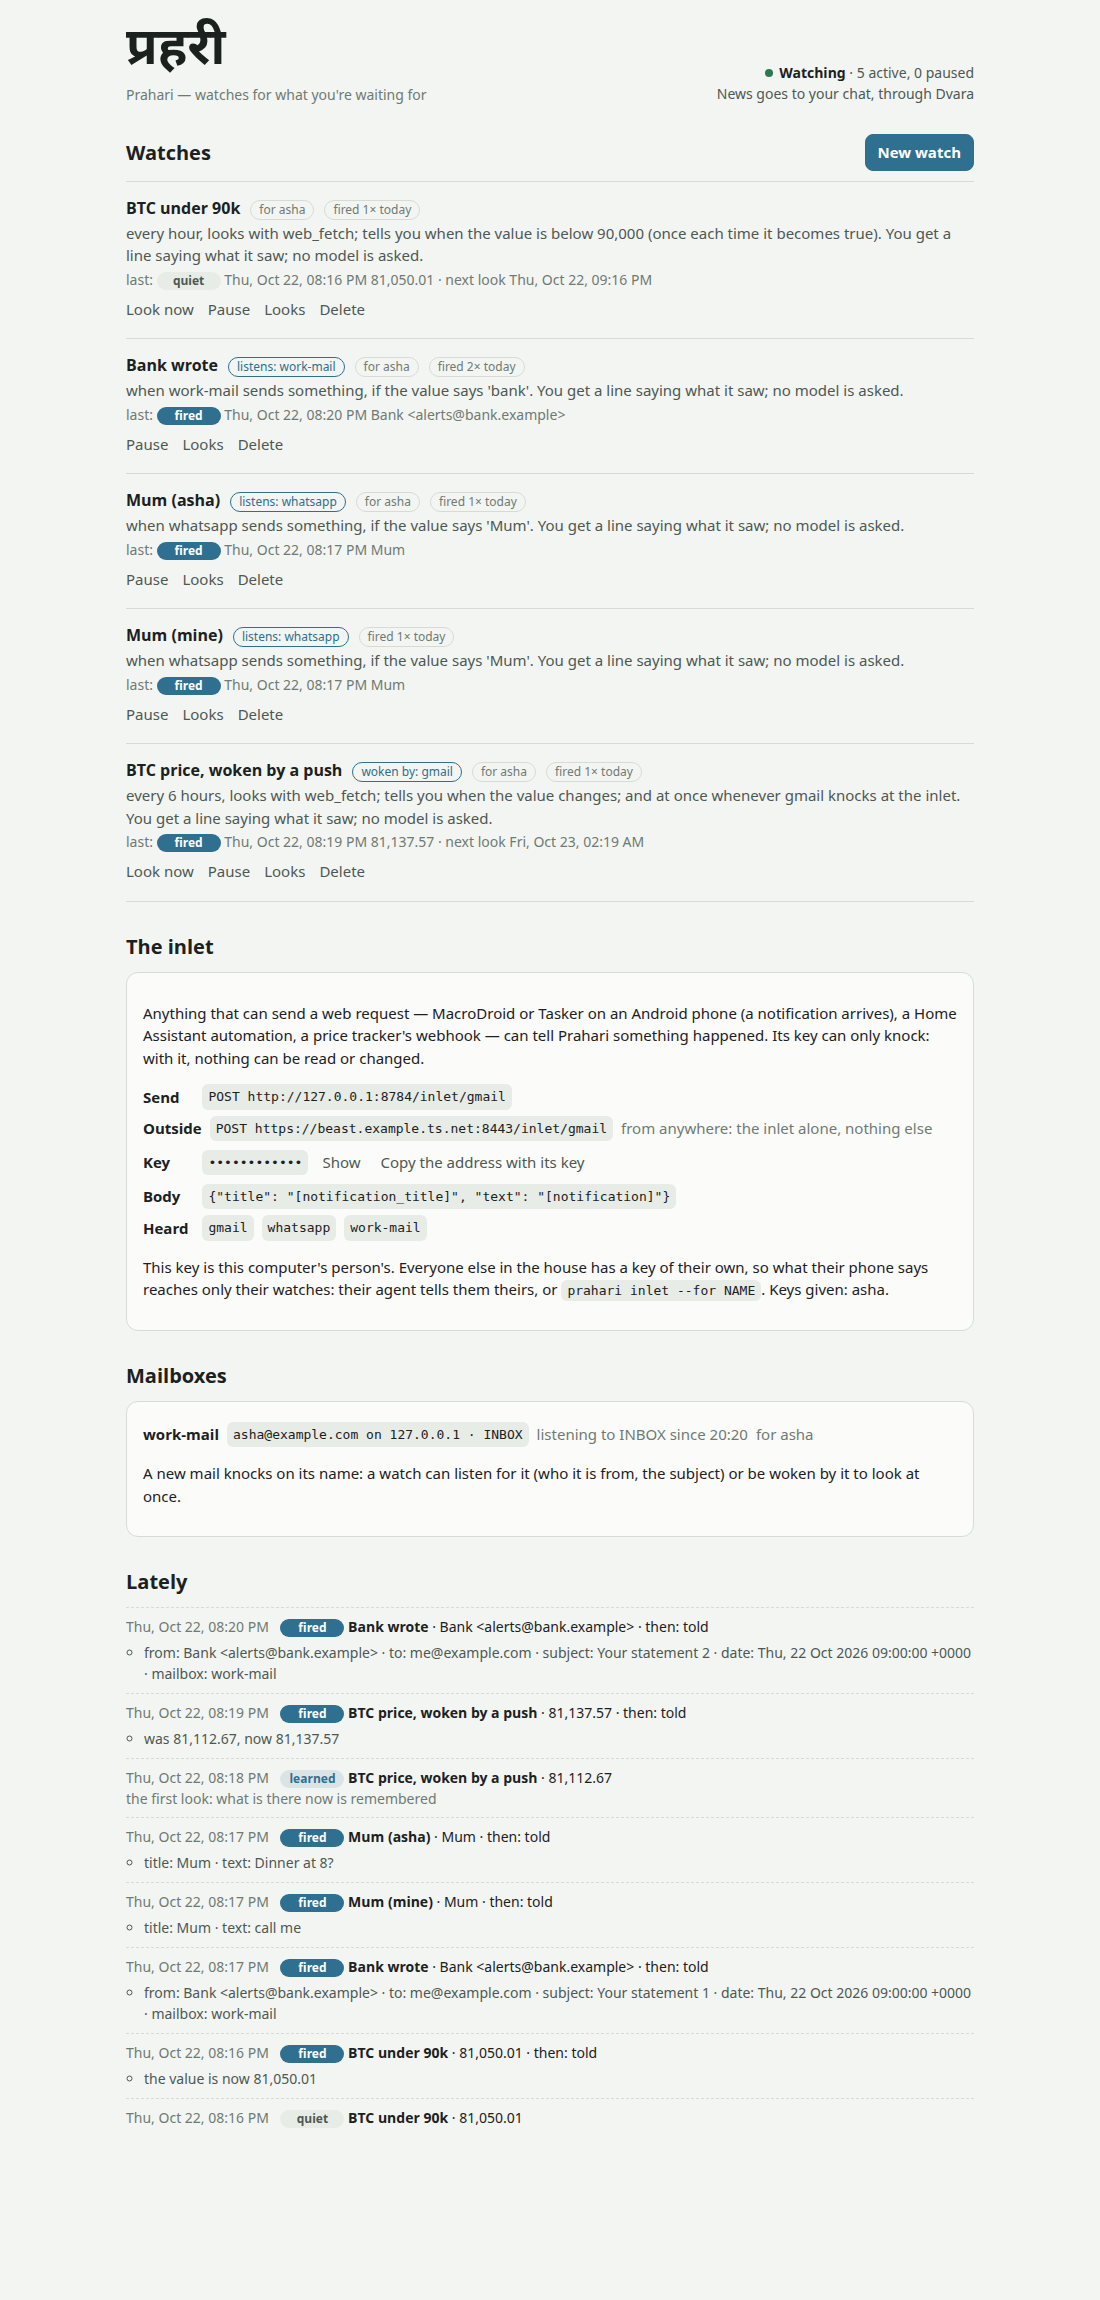
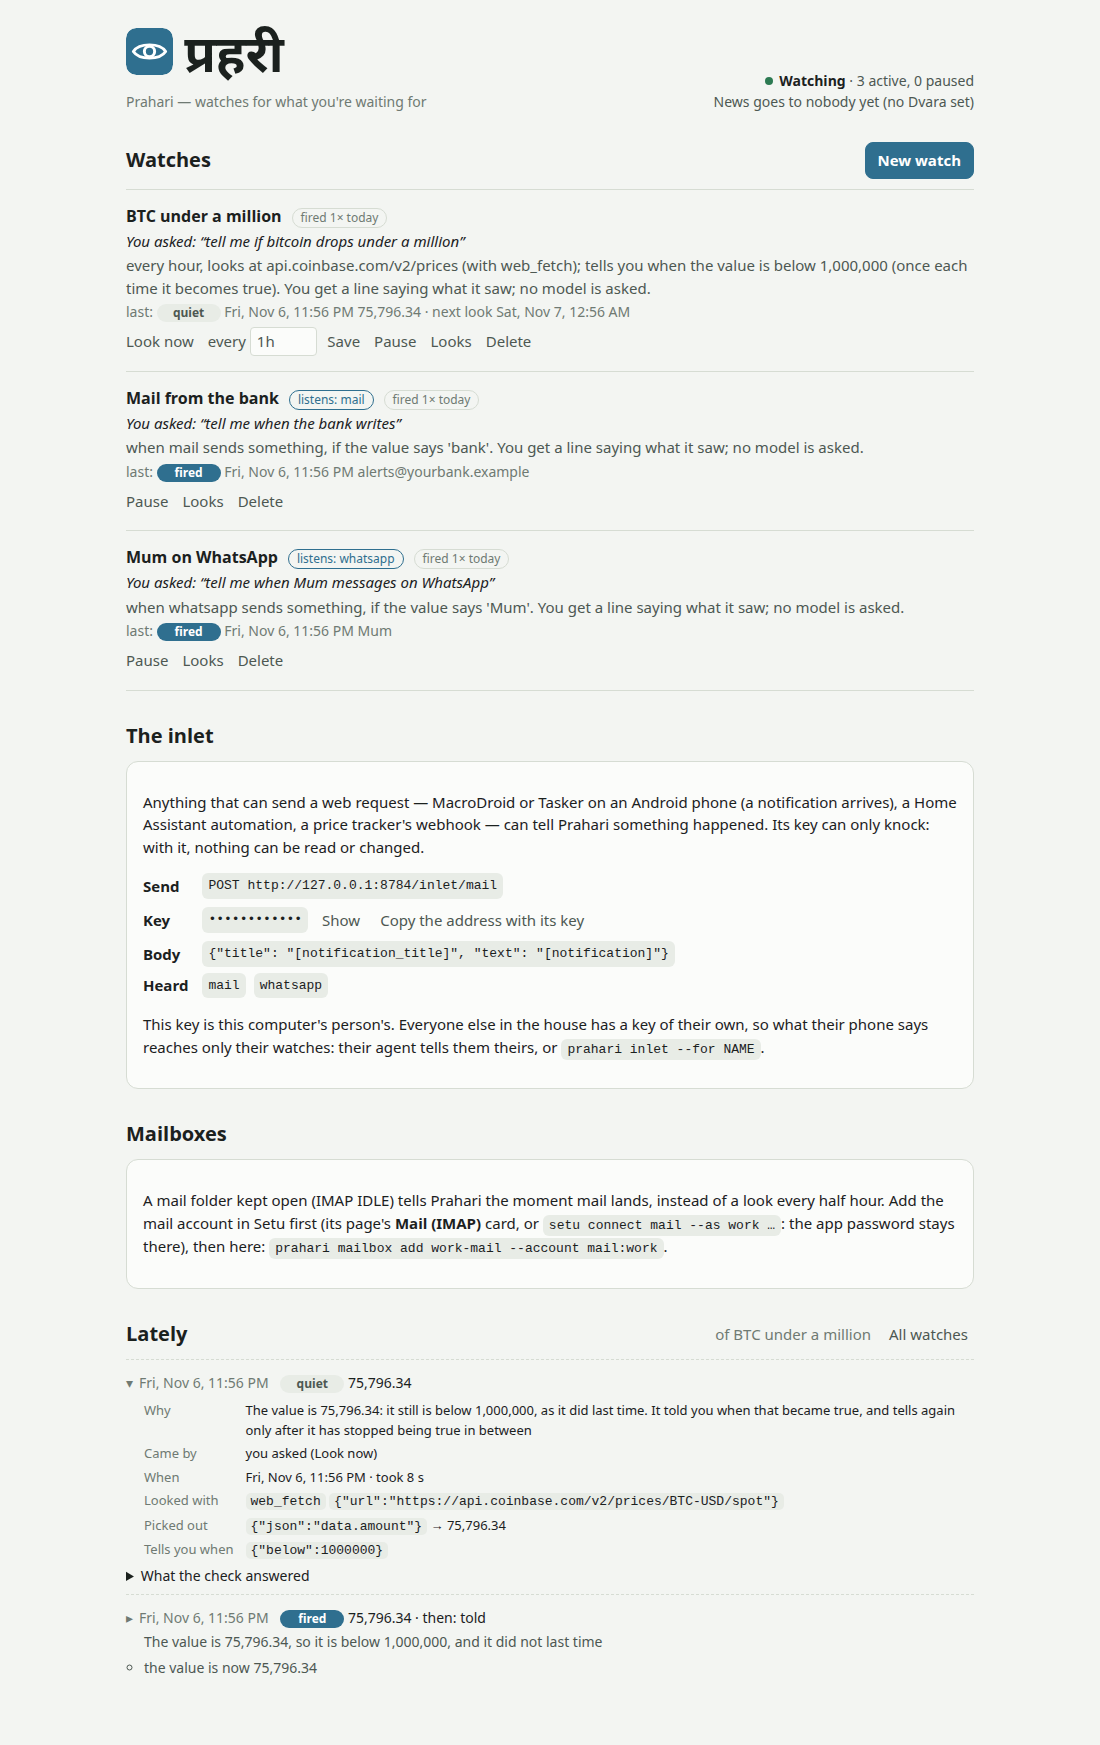
docs(page): the page as it is now, a look opened to why
docs/page.png showed the page before a look opened on a click and said
why it ended as it did. A new picture from a scratch state with three
example watches -- a price under a line, mail from the bank and Mum on
WhatsApp at the inlet -- each with real looks, the newest opened: why,
how it came, what it looked with, what it picked and the test.

diff --git a/README.md b/README.md
@@ -513,7 +513,7 @@ and **Lately**, the last looks across all watches. **New watch** writes
 one by hand, and **Try it** looks once and says what it sees before
 anything is saved.
 
-![Prahari's page: three watches -- a price under a line, new mail, Mum on WhatsApp at the inlet -- then the inlet's address and key, then the latest looks, fired ones in teal](docs/page.png)
+![Prahari's page: three watches -- a price under a line, mail from the bank and Mum on WhatsApp at the inlet -- then the inlet's address and key, the mailboxes, and the latest looks, the newest opened to why it was quiet and what it looked with](docs/page.png)
 
 It listens on localhost only (`--host` to change that), and every API
 request needs the page's token, for the reason Samay's page gives: any
